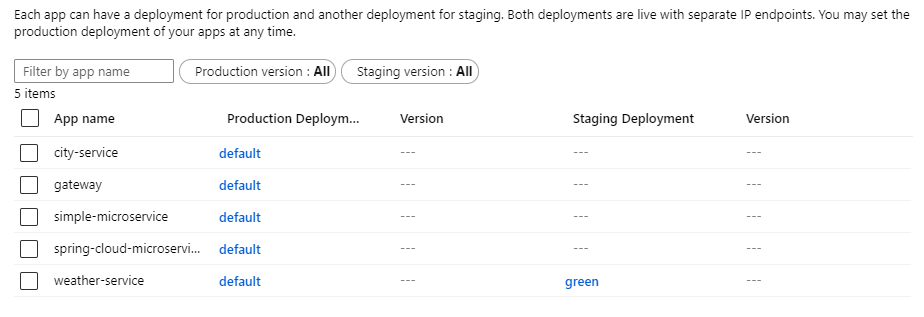
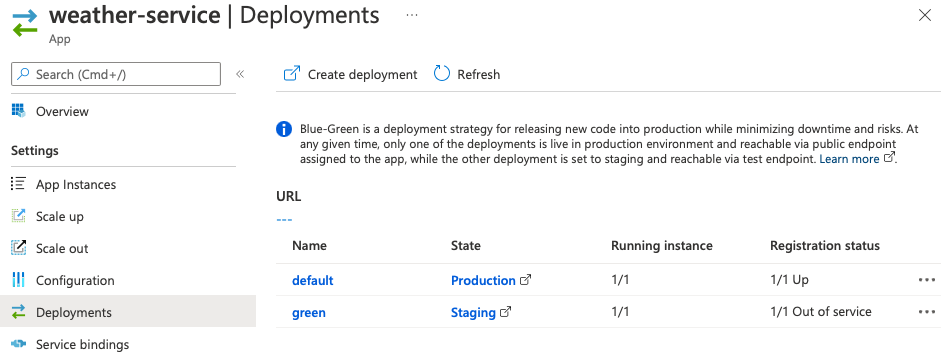
Update unit 10 with the latest releases

diff --git a/10-blue-green-deployment/README.md b/10-blue-green-deployment/README.md
@@ -50,20 +50,25 @@ Build a new version of the application and deploy it to a new `deployment` calle
 ```bash
 cd weather-service
 ./mvnw clean package -DskipTests
-az spring-cloud app deployment create --name green --app weather-service --artifact-path target/demo-0.0.1-SNAPSHOT.jar
+az spring-cloud app deployment create --name green --app weather-service --runtime-version Java_11 --artifact-path target/demo-0.0.1-SNAPSHOT.jar
 cd ..
 ```
 
 Once the application is deployed, if you go to [https://spring-training.azureedge.net/](https://spring-training.azureedge.net/) you will still have the same data, as the new version of the microservice is now in a staging area and not in production yet.
 
-Navigate to the Azure Spring Cloud instance in [the Azure portal](https://portal.azure.com/?WT.mc_id=azurespringcloud-github-judubois) and click on "Deployments" (under Settings). You should now see the "green" deployment in the "Staging Deployment" column:
+Navigate to the Azure Spring Cloud instance in [the Azure portal](https://portal.azure.com/?WT.mc_id=azurespringcloud-github-judubois):
+
+- Look for your Azure Spring Cloud instance in your resource group
+- Go to "Apps"
+  - Select the `weather-service` microservice
+  - Click on "Deployments" in the menu. You should now see the "green" deployment, under the "default" deployment:
 
 ![Deployment Pane](media/02-deployment-pane.png)
 
 You can test the `green` deployment by invoking the same URL as in section 7, but replacing the deployment name `default` with `green`:
 
 ```bash
-curl https://***.test.azuremicroservices.io/weather-service/green/weather/city?name=Paris%2C%20France
+curl "https://***.test.azuremicroservices.io/weather-service/green/weather/city?name=Paris%2C%20France"
 ```
 
 And you should see the result of the recent modification:
@@ -83,8 +88,8 @@ az spring-cloud app set-deployment -n weather-service --deployment green
 Another solution is to use [the Azure portal](https://portal.azure.com/?WT.mc_id=azurespringcloud-github-judubois):
 
 - Find your Azure Spring Cloud instance
-- Click on the "deployment" menu
-- Select the `weather-service` application and click on "Set deployment"
+- Click on the "Apps" menu
+- Select the `weather-service` application and click on "Deployments"
 
 > If you want to reuse a deployment name, you need first to delete the previous deployment under that name:
 >
